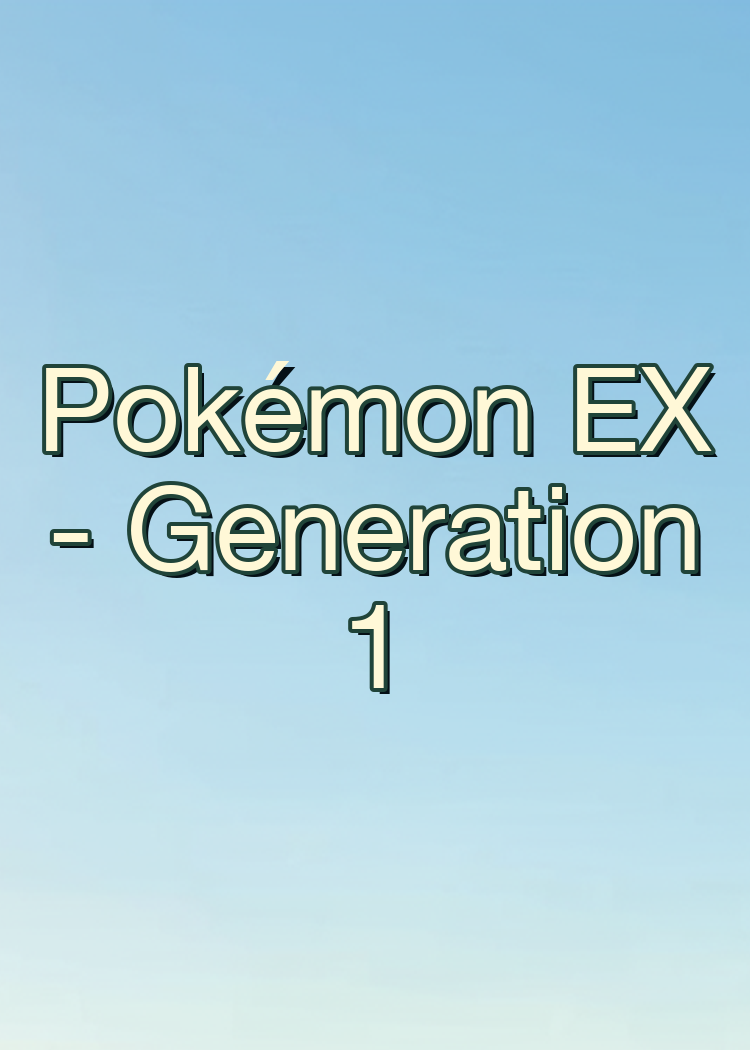
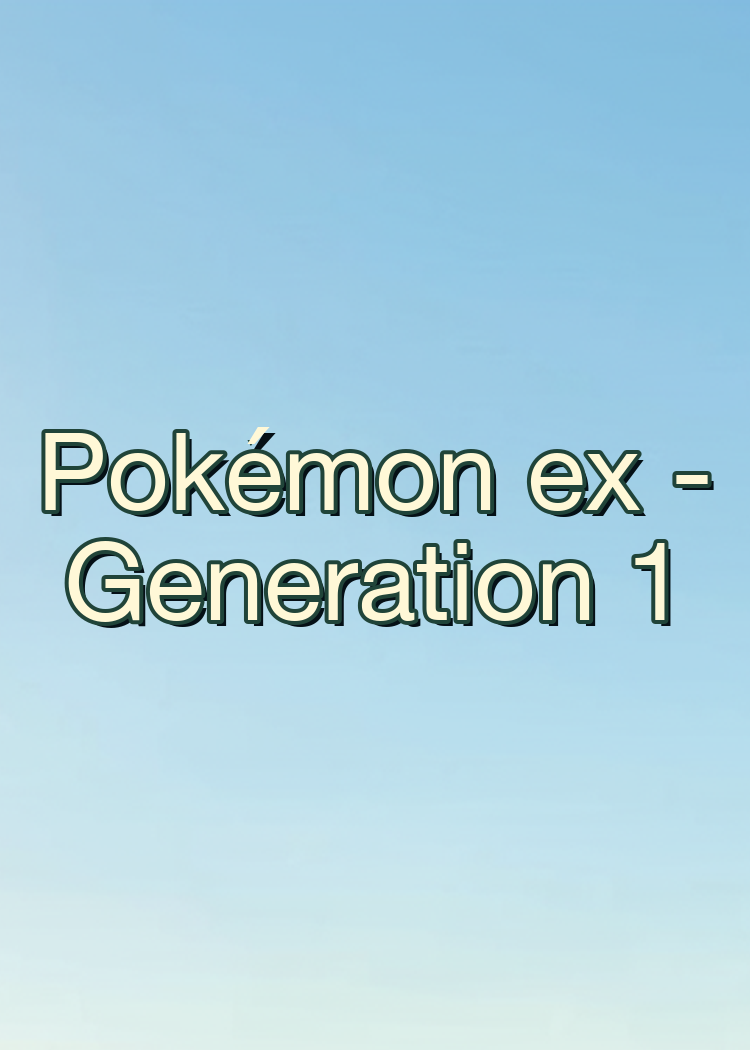
fix(poster): polish classic ex title

Changed region(s): [[0.0307, 0.3352, 0.9507, 0.6705]]

diff --git a/scripts/poster_assets/finalize_comfyui_poster.py b/scripts/poster_assets/finalize_comfyui_poster.py
@@ -283,6 +283,7 @@ def fitted_font(
     minimum_size: int,
     bold: bool,
     language: str | None = None,
+    avoid_short_last_line: bool = False,
 ):
     """Choose the largest font whose wrapped text stays inside ``box``."""
     max_width = box[2] - box[0]
@@ -290,6 +291,13 @@ def fitted_font(
     for size in range(preferred_size, minimum_size - 1, -1):
         font = load_font(size, bold=bold, language=language)
         lines = wrap_text(text, font, max_width)
+        if (
+            avoid_short_last_line
+            and len(lines) > 1
+            and len(lines[-1].split()) == 1
+            and len(lines[-1]) <= 3
+        ):
+            continue
         line_heights = [
             bounds[3] - bounds[1]
             for bounds in (font.getbbox(line) for line in lines)
@@ -414,6 +422,7 @@ def draw_title_text(
         minimum_size=max(10, title_cell.height // 24),
         bold=True,
         language=language,
+        avoid_short_last_line=True,
     )
     stroke_width = max(1, round(font.size / 28))
     draw_text_centered(

diff --git a/scripts/tests/test_poster_assets.py b/scripts/tests/test_poster_assets.py
@@ -1395,6 +1395,31 @@ def test_long_localized_title_stays_inside_its_cell_without_panel():
     )
 
 
+def test_title_font_avoids_short_orphan_line():
+    canvas = Image.new("RGBA", (2368, 3268), (74, 151, 211, 255))
+    title_cell = build_page_layout(
+        "standard_3x3",
+        width_px=canvas.width,
+    ).cell(1, 2)
+    text_box = title_cell.inset(0.05, 0.31)
+    title = "Pokémon ex - Generation 1"
+
+    font = fitted_font(
+        title,
+        text_box,
+        preferred_size=max(14, title_cell.height // 7),
+        minimum_size=max(10, title_cell.height // 24),
+        bold=True,
+        language="de",
+        avoid_short_last_line=True,
+    )
+
+    assert wrap_text(title, font, text_box[2] - text_box[0]) == [
+        "Pokémon ex -",
+        "Generation 1",
+    ]
+
+
 @pytest.mark.parametrize(
     ("language", "title"),
     (

diff --git a/scripts/fetcher/steps/transform_ex_gen1.py b/scripts/fetcher/steps/transform_ex_gen1.py
@@ -186,7 +186,7 @@ class TransformClassicExStep(BaseStep):
         
         variant_data = {
             'type': 'variant',
-            'name': 'Pokémon EX - Generation 1',
+            'name': 'Pokémon ex - Generation 1',
             'sections': {
                 'normal': {
                     'section_id': 'normal',
